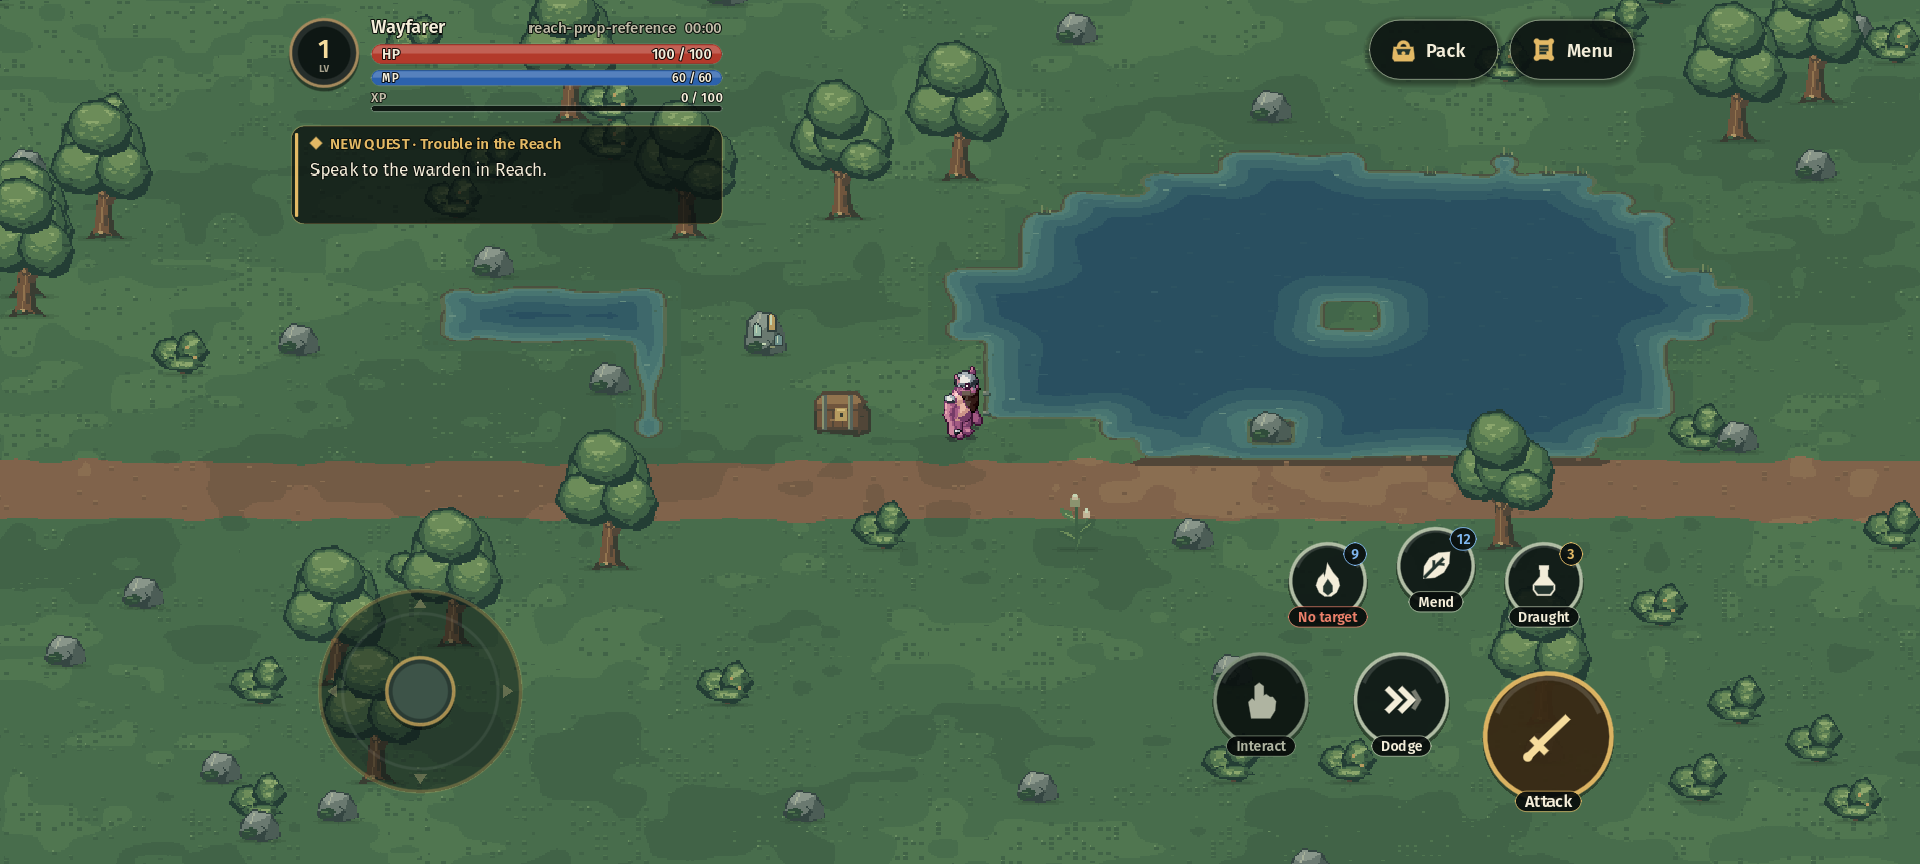
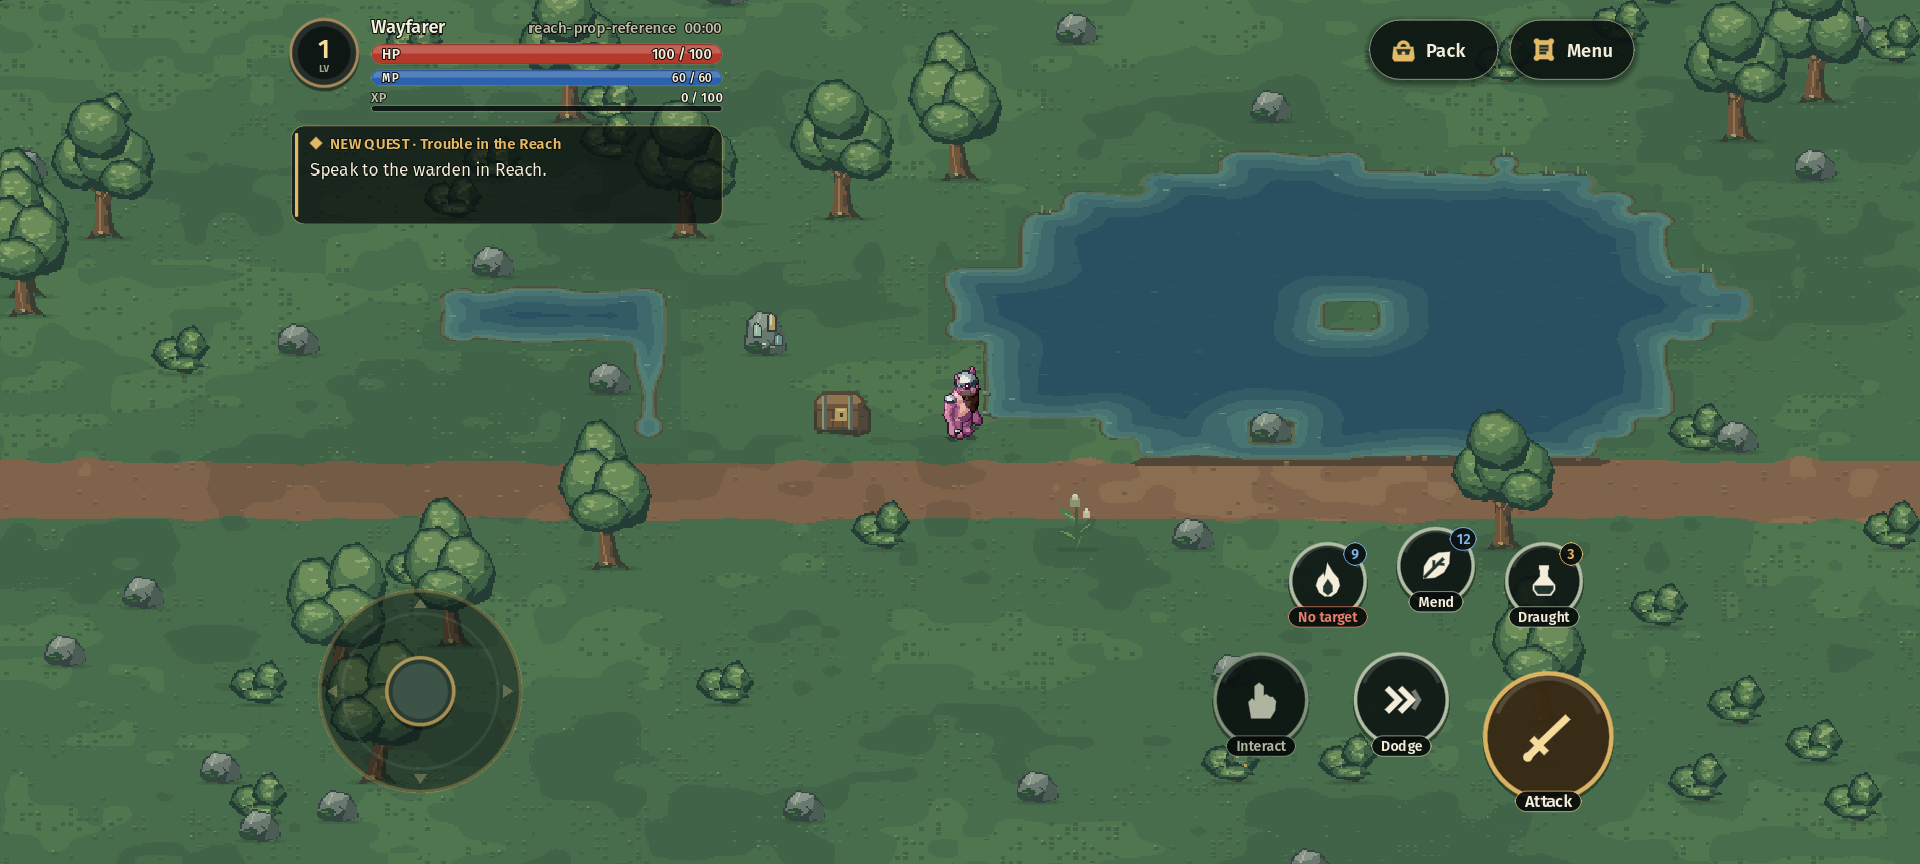
Record Part 3 verified runtime, refreshed captures and Android acceptance evidence

diff --git a/docs/OVERWORLD_PART3_HANDOFF.md b/docs/OVERWORLD_PART3_HANDOFF.md
@@ -1,5 +1,7 @@
 # Living Reach — Part 3 handoff
 
+Verified implementation source: **`fec28d79c099fecd3931184a8ea752669f52a764`**.
+
 Part 3 implements the environmental object family described in [the design](OVERWORLD_PART3_DESIGN.md). It is layered over Part 2 (`acf694d312f0da1cf9d26c68e23525e8fe639e19`) on `feat/overworld-visual-overhaul`. Keep PR #8 draft and unmerged; Part 4 remains open.
 
 ## Implementation
@@ -7,7 +9,7 @@ Part 3 implements the environmental object family described in [the design](OVER
 - `OverworldPropArt` rasterizes fixed indexed-pixel recipes for four tree silhouettes, natural stone, shrubs, herbs, ore, timber/iron chests and the portal. Harvested trees leave stumps, mined ore leaves low stone, gathered herbs leave clipped stems, and looted chests open.
 - All overdrawing is cosmetic. Region features, depletion, inventories, navigation, collision, item rewards, world generation and saved data retain authority. No simulation or character presentation source changed.
 - A single immutable 576×624 RGBA8 atlas is reused by features, decoration and batched terrain stone. Pixel payload: **1,437,696 bytes**. There are no per-instance textures, additional animation loops or growing seed caches. Original PPC art and the three dungeon atlases are unchanged.
-- Decoration positions/counts use the existing rules and hashes. Tall objects retain the root pivot/Y-sort contract; natural stone retains its ground-layer ordering above water. Dungeon `FeatureView` artwork is selected independently.
+- Decoration positions/counts use the existing rules and hashes. Variant selection uses higher hash bits independently of the low-bit object-type choice; three canonical-seed checks guard against a forest of identical crowns. Tall objects retain the root pivot/Y-sort contract; natural stone retains its ground-layer ordering above water. Dungeon `FeatureView` artwork is selected independently.
 - The dedicated CI check uses `tools/verify.py` so engine/script errors fail the job even if an outer check reaches its success marker.
 
 ## Local verification
@@ -26,17 +28,28 @@ xvfb-run -a -s '-screen 0 2560x1440x24' python3 tools/verify.py --visual --mobil
 The local X server used TCP display 34067 in this restricted environment; CI uses its normal `xvfb-run` command above.
 
 - Build: **0 errors**, 58 existing warnings in third-party/generated dialogue and PPC code.
-- Headless integration: **13,888 assertions passed**, including deterministic recipes, all 44 module slots, transparent gutters, authoritative state/continuation, resource depletion and bounded atlas reuse.
+- Headless integration: **13,891 assertions passed**, including deterministic recipes, all 44 module slots, transparent gutters, authoritative state/continuation, resource depletion and bounded atlas reuse.
 - Production references captured the same Part 2 composition before/after, six viewport resolutions, seeds 1/42/1337, resource states and reduced motion. Reviewed actual reference, state gallery and atlas rasters.
 - Actual new-tree depth comparison: **133 actor pixels covered from behind / 1,104 pixels revealed in front**. Static prop scene pixels were identical with reduced motion toggled.
-- Six dungeon→overworld roundtrips: **one atlas build**, 96 decoration nodes (the pre-existing cap), **16,379,535 texture bytes / 6,852,764 buffer bytes** at every final sample. Environment construction ranged **58.94–71.36 ms**. Atlas creation took **12.69 ms** once. Raw data are in `docs/overworld-evidence/part3/`.
-- A single matched Part 2/3 frame sample observed p95 **20.18 / 18.39 ms**. This is descriptive, not a statistically robust performance improvement claim; startup ordering differs, and the process had already initialized the shared atlas before the comparison.
+- Six dungeon→overworld roundtrips: **one atlas build**, 96 decoration nodes (the pre-existing cap), **16,379,535 texture bytes / 6,852,764 buffer bytes** at every final sample. Environment construction ranged **60.08–81.01 ms**. Atlas creation took **14.52 ms** once. Raw data are in `docs/overworld-evidence/part3/`.
+- Existing water regression suite also passed with the new natural stone: **225 raised-rock pixels restored**, **232 animated / 0 reduced-motion water pixels**. This retains Part 1/2 shoreline layering and animation behavior.
+- A single matched Part 2/3 frame sample observed p95 **25.91 / 22.50 ms**. This is descriptive, not a statistically robust performance improvement claim; startup ordering differs, and the process had already initialized the shared atlas before the comparison.
 
 An initial version of the visual fixture tried to visit an uncreated `ruin` region. The resulting engine errors invalidated that attempt. The fixture now explicitly supplies a production-generated dungeon and its entrance position; the final focused run completed with no engine/script errors. The CI wrapper also catches such errors independently of the test marker. Local display initialization failures before the TCP X server setup were environment failures, not game passes.
 
 ## Hosted verification and phone acceptance
 
-Hosted native, gameplay and Android results will be recorded here after this implementation commit completes CI. Physical Galaxy S25 installation, subjective art/touch acceptance, sustained pacing and long-session behavior remain unverified. New art has no dependency on physical-device acceptance; do not describe emulator results as S25 results.
+All hosted workflows passed at **`fec28d79c099fecd3931184a8ea752669f52a764`**:
+
+- [Native verification](https://github.com/CigThePig/RPG-test/actions/runs/42175180513): build/import, **13,891 assertions**, normal-health adventures, desktop/mobile rendering, widescreen, existing water/ground references and the new prop/depletion/depth suite. Hosted tree-depth counts also measured **133 / 1,104**.
+- [Gameplay verification](https://github.com/CigThePig/RPG-test/actions/runs/42175180567): baseline and precise deterministic replays, rendered movies and the complete precise normal-health adventure/dialogue flow.
+- [Android packaging/runtime](https://github.com/CigThePig/RPG-test/actions/runs/42175180590): signed ARM64 export and package validation, plus both installed x86_64 layouts (**1280×800 and 1560×720**) passed on their first attempts at this revision. Checks include three nonblank background/resume cycles, combat/input cancellation and dungeon entry/return cycles. This verifies the tested revision; it does not establish elimination of the earlier intermittent platform lifecycle issue.
+- [Signed ARM64 test APK](https://github.com/CigThePig/RPG-test/actions/runs/42175180590/artifacts/13483795596): `Mosslight-android-arm64-debug-fec28d79c099` (extract the ZIP and install the APK).
+- [Hosted native evidence](https://github.com/CigThePig/RPG-test/actions/runs/42175180513/artifacts/13483621517), [standard Android evidence](https://github.com/CigThePig/RPG-test/actions/runs/42175180590/artifacts/13482924038), [wide Android evidence](https://github.com/CigThePig/RPG-test/actions/runs/42175180590/artifacts/13482879367).
+
+The installed wide exploration capture was also inspected: it shows the new props, open chest and unchanged PPC actors/UI in the exported Android application. The Android OS-touch suite does not cover the complete relic/return/reward adventure; that full flow passed the rendered desktop gameplay suite.
+
+The final handoff/capture update is documentation/evidence only and leaves that verified game/test implementation unchanged. Its fresh CI may be running; the source and APK above identify the tested runtime exactly. Part 3 implementation and automated verification are complete. Physical Galaxy S25 installation, subjective art/touch acceptance, sustained pacing and long-session behavior remain unverified. New art has no dependency on physical-device acceptance; do not describe emulator results as S25 results.
 
 ## Review captures
 

diff --git a/docs/OVERWORLD_ART_DIRECTION.md b/docs/OVERWORLD_ART_DIRECTION.md
@@ -1,6 +1,6 @@
 # The Living Reach — Mosslight environmental art standard
 
-Part 1 establishes the water/material foundation; Parts 2–4 extend it. Authority remains in `RegionState`, `World` and persistence. Art never changes saved geography or collision. Reference base: `ca60f3eda8153c0f7864703e52a1b09f5228f290`.
+Part 1 establishes the water/material foundation; Parts 2–4 extend it. Part 2 ground/banks and Part 3 environmental objects are now implemented; see [Part 3 design](OVERWORLD_PART3_DESIGN.md) and [handoff](OVERWORLD_PART3_HANDOFF.md). The contracts below record the original Part 1 foundation; the later implementation uses RGB8 water data plus a shared RGBA8 ground field, and Part 3 adds one fixed prop atlas. Part 4 remains open. Authority remains in `RegionState`, `World` and persistence. Art never changes saved geography or collision. Reference base: `ca60f3eda8153c0f7864703e52a1b09f5228f290`.
 
 ## Physical space and hierarchy
 
